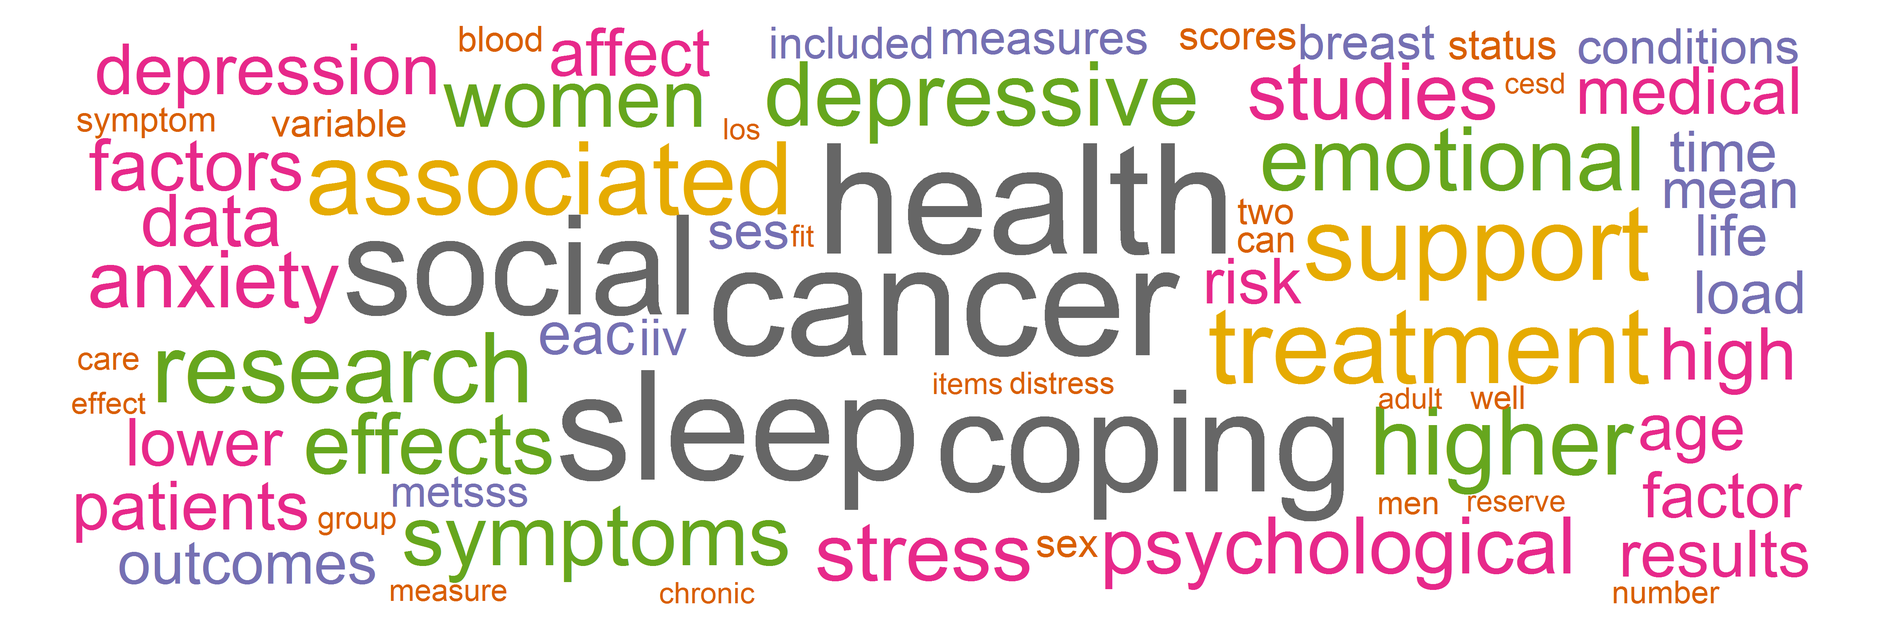
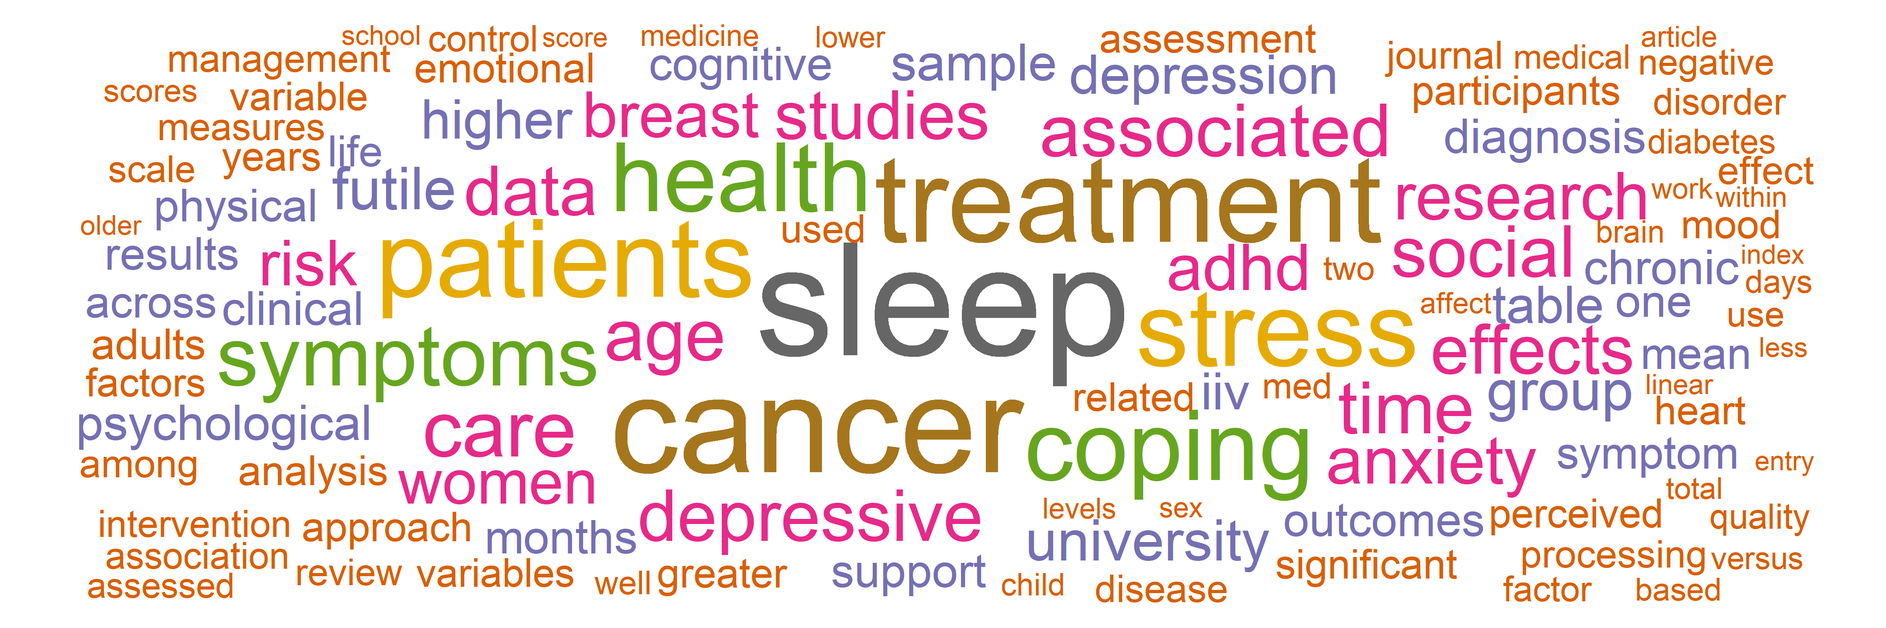
re-rendered site

diff --git a/cv.html b/cv.html
@@ -360,8 +360,8 @@ $(document).ready(function () {
 </div>
 <div id="publications" class="section level2">
 <h2><span class="fa fa-book-open"></span> PUBLICATIONS</h2>
-<div id="htmlwidget-0ca333f16da5d4f16226" style="width:100%;height:400px;" class="plotly html-widget"></div>
-<script type="application/json" data-for="htmlwidget-0ca333f16da5d4f16226">{"x":{"data":[{"orientation":"v","width":[0.900000000000091,0.900000000000091,0.900000000000091,0.900000000000091,0.900000000000091,0.900000000000091,0.900000000000091,0.900000000000091],"base":[0,0,0,0,0,0,0,0],"x":[2012,2013,2014,2015,2016,2017,2018,2019],"y":[5,24,69,156,281,480,753,835],"text":["year: 2012<br />cites:   5","year: 2013<br />cites:  24","year: 2014<br />cites:  69","year: 2015<br />cites: 156","year: 2016<br />cites: 281","year: 2017<br />cites: 480","year: 2018<br />cites: 753","year: 2019<br />cites: 835"],"type":"bar","marker":{"autocolorscale":false,"color":"rgba(89,89,89,1)","line":{"width":1.88976377952756,"color":"transparent"}},"showlegend":false,"xaxis":"x","yaxis":"y","hoverinfo":"text","frame":null},{"orientation":"v","width":[0.900000000000091,0.900000000000091,0.900000000000091,0.900000000000091,0.900000000000091,0.900000000000091,0.900000000000091,0.900000000000091],"base":[0,0,0,0,0,0,0,0],"x":[2012,2013,2014,2015,2016,2017,2018,2019],"y":[5,19,45,87,125,199,273,82],"text":["year: 2012<br />cites:   5","year: 2013<br />cites:  19","year: 2014<br />cites:  45","year: 2015<br />cites:  87","year: 2016<br />cites: 125","year: 2017<br />cites: 199","year: 2018<br />cites: 273","year: 2019<br />cites:  82"],"type":"bar","marker":{"autocolorscale":false,"color":"rgba(89,89,89,1)","line":{"width":1.88976377952756,"color":"transparent"}},"showlegend":false,"xaxis":"x2","yaxis":"y2","hoverinfo":"text","frame":null}],"layout":{"margin":{"t":54.9649923896499,"r":7.30593607305936,"b":25.0837138508371,"l":43.1050228310502},"plot_bgcolor":"rgba(255,255,255,1)","paper_bgcolor":"rgba(255,255,255,1)","font":{"color":"rgba(0,0,0,1)","family":"","size":14.6118721461187},"title":"Google Scholar Citations","titlefont":{"color":"rgba(0,0,0,1)","family":"","size":17.5342465753425},"xaxis":{"domain":[0,0.470112079701121],"automargin":true,"type":"linear","autorange":false,"range":[2011.55,2019.45],"tickmode":"array","ticktext":["2012","2014","2016","2018"],"tickvals":[2012,2014,2016,2018],"categoryorder":"array","categoryarray":["2012","2014","2016","2018"],"nticks":null,"ticks":"outside","tickcolor":"rgba(51,51,51,1)","ticklen":3.65296803652968,"tickwidth":0.66417600664176,"showticklabels":true,"tickfont":{"color":"rgba(77,77,77,1)","family":"","size":11.689497716895},"tickangle":-0,"showline":true,"linecolor":"rgba(0,0,0,1)","linewidth":0.66417600664176,"showgrid":false,"gridcolor":null,"gridwidth":0,"zeroline":false,"anchor":"y2","title":"","titlefont":{"color":null,"family":null,"size":0},"hoverformat":".2f"},"yaxis":{"domain":[0,1],"automargin":true,"type":"linear","autorange":false,"range":[0,835],"tickmode":"array","ticktext":["0","200","400","600","800"],"tickvals":[0,200,400,600,800],"categoryorder":"array","categoryarray":["0","200","400","600","800"],"nticks":null,"ticks":"outside","tickcolor":"rgba(51,51,51,1)","ticklen":3.65296803652968,"tickwidth":0.66417600664176,"showticklabels":true,"tickfont":{"color":"rgba(77,77,77,1)","family":"","size":11.689497716895},"tickangle":-0,"showline":true,"linecolor":"rgba(0,0,0,1)","linewidth":0.66417600664176,"showgrid":false,"gridcolor":null,"gridwidth":0,"zeroline":false,"anchor":"x","title":"","titlefont":{"color":"rgba(0,0,0,1)","family":"","size":14.6118721461187},"hoverformat":".2f"},"annotations":[{"text":"Number of Citations","x":-0.0333904109589041,"y":0.5,"showarrow":false,"ax":0,"ay":0,"font":{"color":"rgba(0,0,0,1)","family":"","size":14.6118721461187},"xref":"paper","yref":"paper","textangle":-90,"xanchor":"right","yanchor":"center","annotationType":"axis"},{"text":"Cumulative","x":0.23505603985056,"y":1,"showarrow":false,"ax":0,"ay":0,"font":{"color":"rgba(26,26,26,1)","family":"","size":11.689497716895},"xref":"paper","yref":"paper","textangle":-0,"xanchor":"center","yanchor":"bottom"},{"text":"Yearly","x":0.76494396014944,"y":1,"showarrow":false,"ax":0,"ay":0,"font":{"color":"rgba(26,26,26,1)","family":"","size":11.689497716895},"xref":"paper","yref":"paper","textangle":-0,"xanchor":"center","yanchor":"bottom"}],"shapes":[{"type":"rect","fillcolor":null,"line":{"color":null,"width":0,"linetype":[]},"yref":"paper","xref":"paper","x0":0,"x1":0.470112079701121,"y0":0,"y1":1},{"type":"rect","fillcolor":"rgba(255,255,255,1)","line":{"color":"rgba(0,0,0,1)","width":1.32835201328352,"linetype":"solid"},"yref":"paper","xref":"paper","x0":0,"x1":0.470112079701121,"y0":0,"y1":23.37899543379,"yanchor":1,"ysizemode":"pixel"},{"type":"rect","fillcolor":null,"line":{"color":null,"width":0,"linetype":[]},"yref":"paper","xref":"paper","x0":0.529887920298879,"x1":1,"y0":0,"y1":1},{"type":"rect","fillcolor":"rgba(255,255,255,1)","line":{"color":"rgba(0,0,0,1)","width":1.32835201328352,"linetype":"solid"},"yref":"paper","xref":"paper","x0":0.529887920298879,"x1":1,"y0":0,"y1":23.37899543379,"yanchor":1,"ysizemode":"pixel"}],"xaxis2":{"type":"linear","autorange":false,"range":[2011.55,2019.45],"tickmode":"array","ticktext":["2012","2014","2016","2018"],"tickvals":[2012,2014,2016,2018],"categoryorder":"array","categoryarray":["2012","2014","2016","2018"],"nticks":null,"ticks":"outside","tickcolor":"rgba(51,51,51,1)","ticklen":3.65296803652968,"tickwidth":0.66417600664176,"showticklabels":true,"tickfont":{"color":"rgba(77,77,77,1)","family":"","size":11.689497716895},"tickangle":-0,"showline":true,"linecolor":"rgba(0,0,0,1)","linewidth":0.66417600664176,"showgrid":false,"domain":[0.529887920298879,1],"gridcolor":null,"gridwidth":0,"zeroline":false,"anchor":"y2","title":"","titlefont":{"color":null,"family":null,"size":0},"hoverformat":".2f"},"yaxis2":{"type":"linear","autorange":false,"range":[0,273],"tickmode":"array","ticktext":["0","100","200"],"tickvals":[0,100,200],"categoryorder":"array","categoryarray":["0","100","200"],"nticks":null,"ticks":"outside","tickcolor":"rgba(51,51,51,1)","ticklen":3.65296803652968,"tickwidth":0.66417600664176,"showticklabels":true,"tickfont":{"color":"rgba(77,77,77,1)","family":"","size":11.689497716895},"tickangle":-0,"showline":true,"linecolor":"rgba(0,0,0,1)","linewidth":0.66417600664176,"showgrid":false,"domain":[0,1],"gridcolor":null,"gridwidth":0,"zeroline":false,"anchor":"x2","title":"","titlefont":{"color":"rgba(0,0,0,1)","family":"","size":14.6118721461187},"hoverformat":".2f"},"showlegend":false,"legend":{"bgcolor":"rgba(255,255,255,1)","bordercolor":"transparent","borderwidth":1.88976377952756,"font":{"color":"rgba(0,0,0,1)","family":"","size":11.689497716895}},"hovermode":"closest","barmode":"relative"},"config":{"doubleClick":"reset","modeBarButtonsToAdd":[{"name":"Collaborate","icon":{"width":1000,"ascent":500,"descent":-50,"path":"M487 375c7-10 9-23 5-36l-79-259c-3-12-11-23-22-31-11-8-22-12-35-12l-263 0c-15 0-29 5-43 15-13 10-23 23-28 37-5 13-5 25-1 37 0 0 0 3 1 7 1 5 1 8 1 11 0 2 0 4-1 6 0 3-1 5-1 6 1 2 2 4 3 6 1 2 2 4 4 6 2 3 4 5 5 7 5 7 9 16 13 26 4 10 7 19 9 26 0 2 0 5 0 9-1 4-1 6 0 8 0 2 2 5 4 8 3 3 5 5 5 7 4 6 8 15 12 26 4 11 7 19 7 26 1 1 0 4 0 9-1 4-1 7 0 8 1 2 3 5 6 8 4 4 6 6 6 7 4 5 8 13 13 24 4 11 7 20 7 28 1 1 0 4 0 7-1 3-1 6-1 7 0 2 1 4 3 6 1 1 3 4 5 6 2 3 3 5 5 6 1 2 3 5 4 9 2 3 3 7 5 10 1 3 2 6 4 10 2 4 4 7 6 9 2 3 4 5 7 7 3 2 7 3 11 3 3 0 8 0 13-1l0-1c7 2 12 2 14 2l218 0c14 0 25-5 32-16 8-10 10-23 6-37l-79-259c-7-22-13-37-20-43-7-7-19-10-37-10l-248 0c-5 0-9-2-11-5-2-3-2-7 0-12 4-13 18-20 41-20l264 0c5 0 10 2 16 5 5 3 8 6 10 11l85 282c2 5 2 10 2 17 7-3 13-7 17-13z m-304 0c-1-3-1-5 0-7 1-1 3-2 6-2l174 0c2 0 4 1 7 2 2 2 4 4 5 7l6 18c0 3 0 5-1 7-1 1-3 2-6 2l-173 0c-3 0-5-1-8-2-2-2-4-4-4-7z m-24-73c-1-3-1-5 0-7 2-2 3-2 6-2l174 0c2 0 5 0 7 2 3 2 4 4 5 7l6 18c1 2 0 5-1 6-1 2-3 3-5 3l-174 0c-3 0-5-1-7-3-3-1-4-4-5-6z"},"click":"function(gd) { \n        // is this being viewed in RStudio?\n        if (location.search == '?viewer_pane=1') {\n          alert('To learn about plotly for collaboration, visit:\\n https://cpsievert.github.io/plotly_book/plot-ly-for-collaboration.html');\n        } else {\n          window.open('https://cpsievert.github.io/plotly_book/plot-ly-for-collaboration.html', '_blank');\n        }\n      }"}],"cloud":false},"source":"A","attrs":{"a1046f770e7":{"x":{},"y":{},"type":"bar"}},"cur_data":"a1046f770e7","visdat":{"a1046f770e7":["function (y) ","x"]},"highlight":{"on":"plotly_click","persistent":false,"dynamic":false,"selectize":false,"opacityDim":0.2,"selected":{"opacity":1},"debounce":0},"base_url":"https://plot.ly"},"evals":["config.modeBarButtonsToAdd.0.click"],"jsHooks":[]}</script>
+<div id="htmlwidget-0777ffddc7cd08eb00fa" style="width:100%;height:400px;" class="plotly html-widget"></div>
+<script type="application/json" data-for="htmlwidget-0777ffddc7cd08eb00fa">{"x":{"data":[{"orientation":"v","width":[0.900000000000091,0.900000000000091,0.900000000000091,0.900000000000091,0.900000000000091,0.900000000000091,0.900000000000091,0.900000000000091],"base":[0,0,0,0,0,0,0,0],"x":[2012,2013,2014,2015,2016,2017,2018,2019],"y":[5,24,69,156,281,480,753,835],"text":["year: 2012<br />cites:   5","year: 2013<br />cites:  24","year: 2014<br />cites:  69","year: 2015<br />cites: 156","year: 2016<br />cites: 281","year: 2017<br />cites: 480","year: 2018<br />cites: 753","year: 2019<br />cites: 835"],"type":"bar","marker":{"autocolorscale":false,"color":"rgba(89,89,89,1)","line":{"width":1.88976377952756,"color":"transparent"}},"showlegend":false,"xaxis":"x","yaxis":"y","hoverinfo":"text","frame":null},{"orientation":"v","width":[0.900000000000091,0.900000000000091,0.900000000000091,0.900000000000091,0.900000000000091,0.900000000000091,0.900000000000091,0.900000000000091],"base":[0,0,0,0,0,0,0,0],"x":[2012,2013,2014,2015,2016,2017,2018,2019],"y":[5,19,45,87,125,199,273,82],"text":["year: 2012<br />cites:   5","year: 2013<br />cites:  19","year: 2014<br />cites:  45","year: 2015<br />cites:  87","year: 2016<br />cites: 125","year: 2017<br />cites: 199","year: 2018<br />cites: 273","year: 2019<br />cites:  82"],"type":"bar","marker":{"autocolorscale":false,"color":"rgba(89,89,89,1)","line":{"width":1.88976377952756,"color":"transparent"}},"showlegend":false,"xaxis":"x2","yaxis":"y2","hoverinfo":"text","frame":null}],"layout":{"margin":{"t":54.9649923896499,"r":7.30593607305936,"b":25.0837138508371,"l":43.1050228310502},"plot_bgcolor":"rgba(255,255,255,1)","paper_bgcolor":"rgba(255,255,255,1)","font":{"color":"rgba(0,0,0,1)","family":"","size":14.6118721461187},"title":"Google Scholar Citations","titlefont":{"color":"rgba(0,0,0,1)","family":"","size":17.5342465753425},"xaxis":{"domain":[0,0.470112079701121],"automargin":true,"type":"linear","autorange":false,"range":[2011.55,2019.45],"tickmode":"array","ticktext":["2012","2014","2016","2018"],"tickvals":[2012,2014,2016,2018],"categoryorder":"array","categoryarray":["2012","2014","2016","2018"],"nticks":null,"ticks":"outside","tickcolor":"rgba(51,51,51,1)","ticklen":3.65296803652968,"tickwidth":0.66417600664176,"showticklabels":true,"tickfont":{"color":"rgba(77,77,77,1)","family":"","size":11.689497716895},"tickangle":-0,"showline":true,"linecolor":"rgba(0,0,0,1)","linewidth":0.66417600664176,"showgrid":false,"gridcolor":null,"gridwidth":0,"zeroline":false,"anchor":"y2","title":"","titlefont":{"color":null,"family":null,"size":0},"hoverformat":".2f"},"yaxis":{"domain":[0,1],"automargin":true,"type":"linear","autorange":false,"range":[0,835],"tickmode":"array","ticktext":["0","200","400","600","800"],"tickvals":[0,200,400,600,800],"categoryorder":"array","categoryarray":["0","200","400","600","800"],"nticks":null,"ticks":"outside","tickcolor":"rgba(51,51,51,1)","ticklen":3.65296803652968,"tickwidth":0.66417600664176,"showticklabels":true,"tickfont":{"color":"rgba(77,77,77,1)","family":"","size":11.689497716895},"tickangle":-0,"showline":true,"linecolor":"rgba(0,0,0,1)","linewidth":0.66417600664176,"showgrid":false,"gridcolor":null,"gridwidth":0,"zeroline":false,"anchor":"x","title":"","titlefont":{"color":"rgba(0,0,0,1)","family":"","size":14.6118721461187},"hoverformat":".2f"},"annotations":[{"text":"Number of Citations","x":-0.0333904109589041,"y":0.5,"showarrow":false,"ax":0,"ay":0,"font":{"color":"rgba(0,0,0,1)","family":"","size":14.6118721461187},"xref":"paper","yref":"paper","textangle":-90,"xanchor":"right","yanchor":"center","annotationType":"axis"},{"text":"Cumulative","x":0.23505603985056,"y":1,"showarrow":false,"ax":0,"ay":0,"font":{"color":"rgba(26,26,26,1)","family":"","size":11.689497716895},"xref":"paper","yref":"paper","textangle":-0,"xanchor":"center","yanchor":"bottom"},{"text":"Yearly","x":0.76494396014944,"y":1,"showarrow":false,"ax":0,"ay":0,"font":{"color":"rgba(26,26,26,1)","family":"","size":11.689497716895},"xref":"paper","yref":"paper","textangle":-0,"xanchor":"center","yanchor":"bottom"}],"shapes":[{"type":"rect","fillcolor":null,"line":{"color":null,"width":0,"linetype":[]},"yref":"paper","xref":"paper","x0":0,"x1":0.470112079701121,"y0":0,"y1":1},{"type":"rect","fillcolor":"rgba(255,255,255,1)","line":{"color":"rgba(0,0,0,1)","width":1.32835201328352,"linetype":"solid"},"yref":"paper","xref":"paper","x0":0,"x1":0.470112079701121,"y0":0,"y1":23.37899543379,"yanchor":1,"ysizemode":"pixel"},{"type":"rect","fillcolor":null,"line":{"color":null,"width":0,"linetype":[]},"yref":"paper","xref":"paper","x0":0.529887920298879,"x1":1,"y0":0,"y1":1},{"type":"rect","fillcolor":"rgba(255,255,255,1)","line":{"color":"rgba(0,0,0,1)","width":1.32835201328352,"linetype":"solid"},"yref":"paper","xref":"paper","x0":0.529887920298879,"x1":1,"y0":0,"y1":23.37899543379,"yanchor":1,"ysizemode":"pixel"}],"xaxis2":{"type":"linear","autorange":false,"range":[2011.55,2019.45],"tickmode":"array","ticktext":["2012","2014","2016","2018"],"tickvals":[2012,2014,2016,2018],"categoryorder":"array","categoryarray":["2012","2014","2016","2018"],"nticks":null,"ticks":"outside","tickcolor":"rgba(51,51,51,1)","ticklen":3.65296803652968,"tickwidth":0.66417600664176,"showticklabels":true,"tickfont":{"color":"rgba(77,77,77,1)","family":"","size":11.689497716895},"tickangle":-0,"showline":true,"linecolor":"rgba(0,0,0,1)","linewidth":0.66417600664176,"showgrid":false,"domain":[0.529887920298879,1],"gridcolor":null,"gridwidth":0,"zeroline":false,"anchor":"y2","title":"","titlefont":{"color":null,"family":null,"size":0},"hoverformat":".2f"},"yaxis2":{"type":"linear","autorange":false,"range":[0,273],"tickmode":"array","ticktext":["0","100","200"],"tickvals":[0,100,200],"categoryorder":"array","categoryarray":["0","100","200"],"nticks":null,"ticks":"outside","tickcolor":"rgba(51,51,51,1)","ticklen":3.65296803652968,"tickwidth":0.66417600664176,"showticklabels":true,"tickfont":{"color":"rgba(77,77,77,1)","family":"","size":11.689497716895},"tickangle":-0,"showline":true,"linecolor":"rgba(0,0,0,1)","linewidth":0.66417600664176,"showgrid":false,"domain":[0,1],"gridcolor":null,"gridwidth":0,"zeroline":false,"anchor":"x2","title":"","titlefont":{"color":"rgba(0,0,0,1)","family":"","size":14.6118721461187},"hoverformat":".2f"},"showlegend":false,"legend":{"bgcolor":"rgba(255,255,255,1)","bordercolor":"transparent","borderwidth":1.88976377952756,"font":{"color":"rgba(0,0,0,1)","family":"","size":11.689497716895}},"hovermode":"closest","barmode":"relative"},"config":{"doubleClick":"reset","modeBarButtonsToAdd":[{"name":"Collaborate","icon":{"width":1000,"ascent":500,"descent":-50,"path":"M487 375c7-10 9-23 5-36l-79-259c-3-12-11-23-22-31-11-8-22-12-35-12l-263 0c-15 0-29 5-43 15-13 10-23 23-28 37-5 13-5 25-1 37 0 0 0 3 1 7 1 5 1 8 1 11 0 2 0 4-1 6 0 3-1 5-1 6 1 2 2 4 3 6 1 2 2 4 4 6 2 3 4 5 5 7 5 7 9 16 13 26 4 10 7 19 9 26 0 2 0 5 0 9-1 4-1 6 0 8 0 2 2 5 4 8 3 3 5 5 5 7 4 6 8 15 12 26 4 11 7 19 7 26 1 1 0 4 0 9-1 4-1 7 0 8 1 2 3 5 6 8 4 4 6 6 6 7 4 5 8 13 13 24 4 11 7 20 7 28 1 1 0 4 0 7-1 3-1 6-1 7 0 2 1 4 3 6 1 1 3 4 5 6 2 3 3 5 5 6 1 2 3 5 4 9 2 3 3 7 5 10 1 3 2 6 4 10 2 4 4 7 6 9 2 3 4 5 7 7 3 2 7 3 11 3 3 0 8 0 13-1l0-1c7 2 12 2 14 2l218 0c14 0 25-5 32-16 8-10 10-23 6-37l-79-259c-7-22-13-37-20-43-7-7-19-10-37-10l-248 0c-5 0-9-2-11-5-2-3-2-7 0-12 4-13 18-20 41-20l264 0c5 0 10 2 16 5 5 3 8 6 10 11l85 282c2 5 2 10 2 17 7-3 13-7 17-13z m-304 0c-1-3-1-5 0-7 1-1 3-2 6-2l174 0c2 0 4 1 7 2 2 2 4 4 5 7l6 18c0 3 0 5-1 7-1 1-3 2-6 2l-173 0c-3 0-5-1-8-2-2-2-4-4-4-7z m-24-73c-1-3-1-5 0-7 2-2 3-2 6-2l174 0c2 0 5 0 7 2 3 2 4 4 5 7l6 18c1 2 0 5-1 6-1 2-3 3-5 3l-174 0c-3 0-5-1-7-3-3-1-4-4-5-6z"},"click":"function(gd) { \n        // is this being viewed in RStudio?\n        if (location.search == '?viewer_pane=1') {\n          alert('To learn about plotly for collaboration, visit:\\n https://cpsievert.github.io/plotly_book/plot-ly-for-collaboration.html');\n        } else {\n          window.open('https://cpsievert.github.io/plotly_book/plot-ly-for-collaboration.html', '_blank');\n        }\n      }"}],"cloud":false},"source":"A","attrs":{"50f835636d1e":{"x":{},"y":{},"type":"bar"}},"cur_data":"50f835636d1e","visdat":{"50f835636d1e":["function (y) ","x"]},"highlight":{"on":"plotly_click","persistent":false,"dynamic":false,"selectize":false,"opacityDim":0.2,"selected":{"opacity":1},"debounce":0},"base_url":"https://plot.ly"},"evals":["config.modeBarButtonsToAdd.0.click"],"jsHooks":[]}</script>
 <div id="peer-reviewed-articles" class="section level3">
 <h3><span class="fa fa-file-alt"></span> Peer-Reviewed Articles</h3>
 <code>2019</code>

diff --git a/projects.html b/projects.html
@@ -339,6 +339,20 @@ $(document).ready(function () {
 <div id="aces-2017---2017" class="section level3">
 <h3>ACES | 2017 - 2017 |</h3>
 <p>The <em>A</em>ctivity, <em>C</em>oping, <em>E</em>motions, <em>S</em>tress and <em>S</em>leep (ACES) study was a 12-day, daily diary study in 191 adults using ecological momentary assessment to examine behavioural (sleep, physical activity) and psychological (stress, emotions, psychosocial vulnerabilities) factors. ACES was able to break ground and shed light on the daily dynamics between stress and sleep and sleep and emotions using high quality, objective data. Analyses from these data are still underway. However, a summary report is available here: <span class="fa fa-newspaper"></span> <a href="https://sway.office.com/YIoVCcBjbsP3MOqV?ref=Link">Participant Report</a></p>
+<hr />
+</div>
+<div id="projects-we-collaborate-on" class="section level2">
+<h2>Projects We Collaborate On</h2>
+<div id="class-2019---current" class="section level3">
+<h3>CLASS | 2019 - current |</h3>
+<p>Over 70% of adolescents in Australia experience insufficient sleep. Yet, the extent to which the biological clock in the brain plays a role in cognitive function and academic functioning is currently not understood. The <strong>C</strong>ircadian, <strong>L</strong>ight, <strong>A</strong>dolescence, <strong>S</strong>leep, and <strong>S</strong>chool (CLASS) study is a longitudinal, cohort study lead by Monash University and PI Prof. Rajaratnam. CLASS uses state-of-the-art measures of the biological clock, rigorous assessment of light exposure and sophisticated analytical approaches. CLASS will demonstrate longitudinal relationships between environmental light exposure, multiple facets of sleep-wakefulness, and ecologically relevant measures of academic achievement. The proposed study will identify specific sleep and circadian markers that are linked to academic performance, and generate innovative algorithms that predict these associations. Findings from CLASS can help drive prevention and early intervention programs that use sleep-wake and light exposure information to improve sleep quality.</p>
+<hr />
+</div>
+<div id="repat-2019---current" class="section level3">
+<h3>REPAT | 2019 - current |</h3>
+<p>Approximately one-third of women coping with breast cancer experience persistent symptoms of depression, pain and fatigue, which are not normative and are difficult to treat. Emotional approach coping and expression of emotion is related to fewer and faster recovery from depression symptoms. However, expression of emotion is inconsistent with social norms in some cultures. Using visual art-making as a form of expression and communication within a safe and supportive relationship may be an effective way for women from cultures where emotion expression is not normative to approach, process and express their emotions. The <strong>R</strong>ole of <strong>E</strong>motional <strong>P</strong>rocessing in <strong>A</strong>rt <strong>T</strong>herapy (<strong>REPAT</strong>) for breast cancer palliative care patients study is a randomized controlled trial being lead by the University of Haifa in Israel. REPAT evaluates the impact of art making in women who have completed primary treatment for breast cancer. REPAT also has a focus on mechanisms including detailed assessments of emotion-regulation and physiological (e.g., cholinergic, anti-inflammatory processes) mechanisms that may underpin the link between art making and improvements in outcomes. REPAT also is unique in explicitly recruiting both Jewish and Arab women allowing a comparison of cultural differences and comparison of more traditional and collectivist ethno-cultures. To find out more, visit the study website at <a href="http://repat.haifa.ac.il/en/">http://repat.haifa.ac.il/en/</a>.</p>
+<hr />
+</div>
 </div>
 
 <br style = "line-height:100px;"></br>

diff --git a/people.html b/people.html
@@ -326,6 +326,11 @@ $(document).ready(function () {
 
 
 <p><br></br></p>
+<div id="jordan-macorra-2019---current-phd-clinical" class="section level3">
+<h3>Jordan Macorra | 2019 - current | PhD (Clinical)</h3>
+<p>Jordan Maccora completed his Bachelor of Psychology (with Honours) in 2016 at Monash University. He has gained experience working within both community-based residential and outreach mental health programs. Jordan previously worked at the Monash Be Active Sleep Eat facility and was involved in the development, co-ordination and publication of findings regarding the comparative analysis of alertness detection devices within a sleep deprivation protocol. Jordan commenced his PhD (Clinical Psychology) at Monash University in 2019 and was awarded a Monash Graduate Excellence Scholarship for outstanding marks. Under the supervision of Dr Joshua Wiley, his research will explore the utility of CBT-I and bright light exposure therapy with respect to sleep disturbance within oncology populations.</p>
+<hr />
+</div>
 <div id="angie-phong-2019---current-honours" class="section level3">
 <h3>Angie Phong | 2019 - current | Honours</h3>
 <p>Angie Phong is a current Honours student completing her Bachelor of Psychology (Honours) at Monash University. She has interned as a Research Assistant across two research labs exploring the themes of sleep and neurodevelopment. In the Psychology Honours Program, she is supervised by Dr Joshua Wiley on a project exploring the protective effects of physical activity on stress and mood. Her research specifically examines how physical activity buffers the effects of daily stressors on negative affect, particularly within a population of university and college students.</p>
@@ -344,6 +349,11 @@ $(document).ready(function () {
 <div id="isabelle-s.-smith-2019---current-phd-clinical" class="section level3">
 <h3>Isabelle S. Smith | 2019 - current | PhD (Clinical)</h3>
 <p>Isabelle Smith completed her Bachelor of Psychology in 2018, where she was awarded the Australian Psychological Society Prize for academic excellence in her final Honours year. During her undergraduate degree, Isabelle worked as a research assistant in areas of mother-infant attachment and maternal depression, anxiety and sleep. She commenced her PhD in clinical psychology at Monash University in 2019 and is supervised by Dr Joshua Wiley and Dr Bei Bei. Her research now is focused on trialling a transdiagnostic emotion-focused intervention that targets the emotional responses associated with a cancer diagnosis and treatment.</p>
+<hr />
+</div>
+<div id="yan-chi-tung-2018---current-phd-clinical" class="section level3">
+<h3>Yan Chi Tung | 2018 - current | PhD (Clinical)</h3>
+<p>Natasha Tung completed her Bachelor of Arts and Honours in Psychology at the University of Melbourne in 2016. Since then, she worked as a Research Assistant on a project to help Internet browsing among visually-impaired populations, as a teaching associate at Monash University and as a personal development program coach with young individuals aged 7 to 17 years old. Natasha commenced her PhD (Clinical Psychology) in the Monash Behavioural Medicine Lab under the supervision of Dr Joshua Wiley and Dr Linda Luecken (Arizona State University) in 2018. She is currently looking at the impact of early family environment, parental upbringing and resilience on how emerging adults cope with stress in everyday life during a transition period. Natasha is also currently working with adults in a clinical setting, parents with teens experiencing anxiety and depression and young individuals seeking cognitive assessments.</p>
 <hr />
 </div>
 <div id="yi-yang-yap-2018---current-phd" class="section level3">

diff --git a/index.html b/index.html
@@ -11,7 +11,7 @@
 
 
 
-<title>   Behavioural Medicine Lab</title>
+<title>Behavioural Medicine Lab</title>
 
 <script src="site_libs/jquery-1.11.3/jquery.min.js"></script>
 <meta name="viewport" content="width=device-width, initial-scale=1" />
@@ -320,7 +320,7 @@ $(document).ready(function () {
 
 
 
-<h1 class="title toc-ignore"><img src="wordcloud_banner.png"/> <br></br> Behavioural Medicine Lab</h1>
+<h1 class="title toc-ignore">Behavioural Medicine Lab</h1>
 
 </div>
 
@@ -330,6 +330,10 @@ $(document).ready(function () {
 <p><em>Methods</em> our team has expertise in include ecological momentary assessment, actigraphy, statistics and machine learning, and clinical trials.</p>
 <p>We leverage the latest science from our team and others to evaluate and optimise interventions to improve sleep, reduce insomnia symptoms, and promote mental health, particularly in people undergoing cancer treatment or other sources of high stress.</p>
 <p>Our team is lead by Dr. Joshua Wiley and is situated within the Monash Institute of Cognitive and Clinical Neurosciences <a href="http://www.monash.edu/neuro-institute">(MICCN)</a> within the Sleep and Circadian Rhythms Program. To see an example of the sort of work we do and how we work to feed findings back to our participants and the community, take a look at our <a href="projects.html">projects</a> and look at some of the reports we have sent our participants there.</p>
+<p><br></br></p>
+<p>The word cloud below provides an data-driven summary of the type of work our lab conducts. The word cloud is based off papers published from our lab. Word size shows how commonly specific words appear in our work.</p>
+<p><img src="wordcloud_banner.png" /></p>
+<p><br></br></p>
 <div id="joshua-f.-wiley" class="section level2">
 <h2>Joshua F. Wiley</h2>
 <p>Dr. Joshua Wiley is a behavioural medicine researcher currently appointed as a lecturer (Asst. Professor) at Monash University in the School of Psychological Sciences and MICCN (2016-present). He studied health psychology and behavioural medicine, completing his PhD at the University of California at Los Angeles in 2015. Subsequently, he trained in pragmatic randomised controlled trials (RCTs) through post doctoral with a primary care and prevention group.</p>
